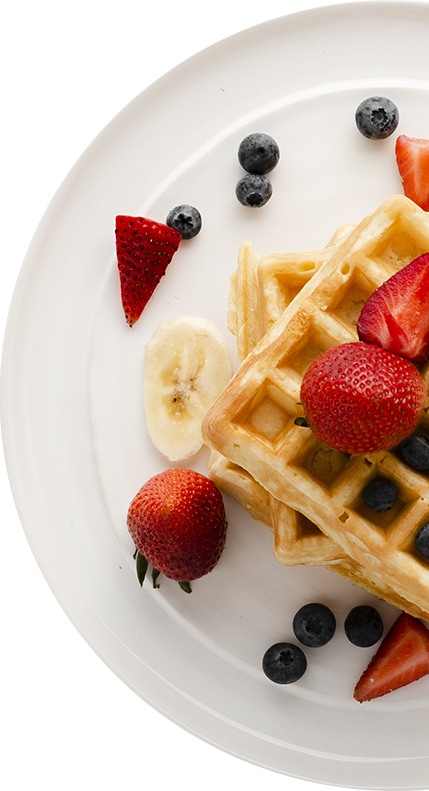
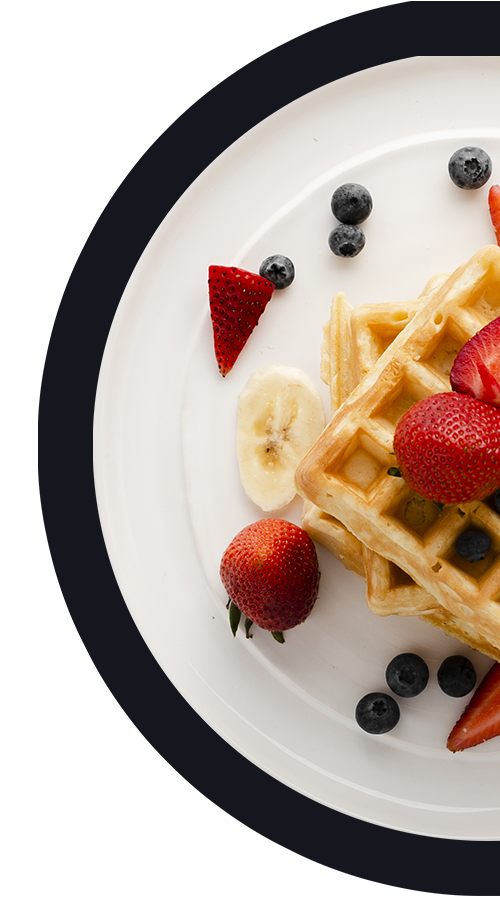
full

diff --git a/index.html b/index.html
@@ -16,7 +16,7 @@
     <body>
         <div class="hero">
             <nav class="nav-bar mb-3">
-                <div class="container">
+                <div class="container pc d-none d-lg-flex">
                     <div class="links">
                         <a href="#" class="active">Home</a>
                         <a href="#">About</a>
@@ -28,6 +28,20 @@
                         <a href="#">Gallery</a>
                         <a href="#">Contact</a>
                         <a href="#">Blog</a>
+                    </div>
+                </div>
+                <div class="container mobile d-block d-lg-none">
+                    <div class="mobile">
+                        <div class="img d-flex align-items-center justify-content-center pt-3 pb-2 w-100">
+                            <img src="imgs/logo.png" alt="Food Lovers" class="logo">
+                        </div>
+                        <div class="links d-flex justify-content-between align-items-center">
+                            <a href="#" class="active">Home</a>
+                            <a href="#">About</a>
+                            <a href="#">Menus</a>
+                            <a href="#">Gallery</a>
+                            <a href="#">Contact</a>
+                        </div>
                     </div>
                 </div>
             </nav>
@@ -52,7 +66,7 @@
                 <div class="row align-items-center">
                     <div class="col-lg-6"><img src="imgs/food2.jpg" alt="Food" class="img-fluid"></div>
                     <div class="col-lg-6">
-                        <h1 class="text-main fw-bold">About Us</h1>
+                        <h1 class="text-main fw-bold mt-3 mt-lg-0">About Us</h1>
                         <p class="fs-3 text-main-white">Lorem ipsum dolor sit amet consectetur adipisicing elit. Voluptates magni 
                             provident quidem sit quasi soluta voluptas! Maxime, exercitationem cum architecto 
                             repellat culpa consequuntur iste possimus accusamus laudantium delectus nisi voluptas?
@@ -62,16 +76,31 @@
             </div>
         </div>
 
+        <div class="hard bg-main position-relative">
+            <img src="imgs/food3.png" alt="" class="img1">
+            <img src="imgs/food5.png.png" alt="" class="img2 d-none d-lg-block">
+            <img src="imgs/food4.png.png" alt="" class="img3 d-none d-lg-block">
+            <div class="container">
+                <div class="text" style="max-width: 500px">
+                    <h1 class="fw-bold text-white">Our Food Quality</h1>
+                    <p class="text-main-white fs-3">Lorem ipsum dolor sit amet, 
+                        consectetur adipisicing elit. Recusandae 
+                        rem minus corporis dolorem repellat sapiente 
+                        eaque, fugiat quae magni quam adipisci suscipit vitae.</p>
+                </div>
+            </div>
+        </div>
+
         <div class="gallery">
             <div class="container">
                 <h1 class="text-center text-main mb-5 fw-bold">Our Food Gallery</h1>
-                <div class="row">
-                    <div class="col-lg-4"><img src="imgs/g1.jpg" alt="Food" class="img-fluid"></div>
-                    <div class="col-lg-4"><img src="imgs/g2.jpg" alt="Food" class="img-fluid"></div>
-                    <div class="col-lg-4"><img src="imgs/g3.jpg" alt="Food" class="img-fluid"></div>
-                    <div class="col-lg-4 mt-4"><img src="imgs/g4.jpg" alt="Food" class="img-fluid"></div>
-                    <div class="col-lg-4 mt-4"><img src="imgs/g5.jpg" alt="Food" class="img-fluid"></div>
-                    <div class="col-lg-4 mt-4"><img src="imgs/g6.jpg" alt="Food" class="img-fluid"></div>
+                <div class="row justify-content-center">
+                    <div class="col-lg-4 col-md-6 d-flex justify-content-center"><img src="imgs/g1.jpg" alt="Food" class="img-fluid"></div>
+                    <div class="col-lg-4 col-md-6 d-flex justify-content-center mt-4 mt-md-0"><img src="imgs/g2.jpg" alt="Food" class="img-fluid"></div>
+                    <div class="col-lg-4 col-md-6 d-flex justify-content-center mt-4 mt-lg-0"><img src="imgs/g3.jpg" alt="Food" class="img-fluid"></div>
+                    <div class="col-lg-4 col-md-6 d-flex justify-content-center mt-4"><img src="imgs/g4.jpg" alt="Food" class="img-fluid"></div>
+                    <div class="col-lg-4 col-md-6 d-flex justify-content-center mt-4"><img src="imgs/g5.jpg" alt="Food" class="img-fluid"></div>
+                    <div class="col-lg-4 col-md-6 d-flex justify-content-center mt-4"><img src="imgs/g6.jpg" alt="Food" class="img-fluid"></div>
                 </div>
             </div>
         </div>
@@ -120,7 +149,7 @@
         </div>
 
         <div class="end bg-main mt-5">
-            <div class="container d-flex align-items-center">
+            <div class="container d-flex align-items-center flex-column flex-lg-row">
                 <img src="imgs/footer.png" width="300px"alt="Food" >
                 <div class="text">
                     <h1 class="text-main-white fw-bold">Enjoy Best Meal</h1>

diff --git a/css/style.css b/css/style.css
@@ -64,14 +64,14 @@ body{
     z-index: 3;
 }
 
-.nav-bar .container{
+.nav-bar .container.pc{
     padding: 25px 0px;
     display: flex;
     justify-content: space-between;
     align-items: center;
 }
 
-.nav-bar .container .links{
+.nav-bar .container.pc .links{
     display: flex;
     gap: 35px;
 }
@@ -152,6 +152,13 @@ body{
     gap: 180px;
 }
 
+@media (max-width: 500px) {
+    .end .container{
+        gap: 100px;
+        overflow-x: hidden;
+    }
+}
+
 footer{
     padding: 120px 0 80px;
 }
@@ -173,4 +180,40 @@ footer i{
 
 footer i:hover{
     transform: translateY(-5px);
+}
+
+.hard{
+    padding: 200px 0 500px;
+}
+
+.hard .img1{
+    position: absolute;
+    top: -50px;
+    right: 0;
+    width: 400px;
+}
+
+@media (max-width: 933px) {
+    .hard .img1{
+        width: 150px;
+    }
+
+    .hard{
+        padding: 200px 0 100px;
+    }
+}
+
+
+.hard .img2{
+    position: absolute;
+    bottom: -70px;
+    left: 0;
+    width: 500px;
+}
+
+.hard .img3{
+    position: absolute;
+    top: 45%;
+    left: 40%;
+    width: 450px;
 }
